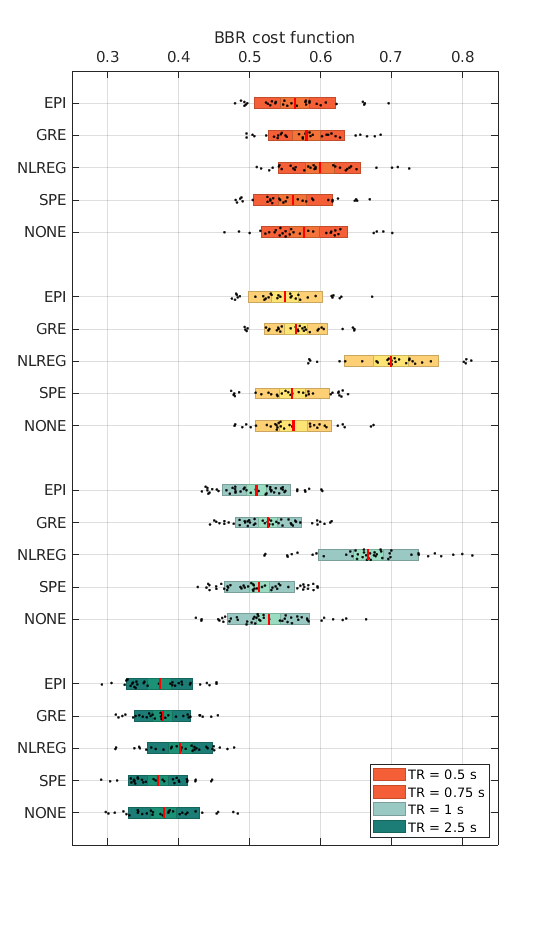
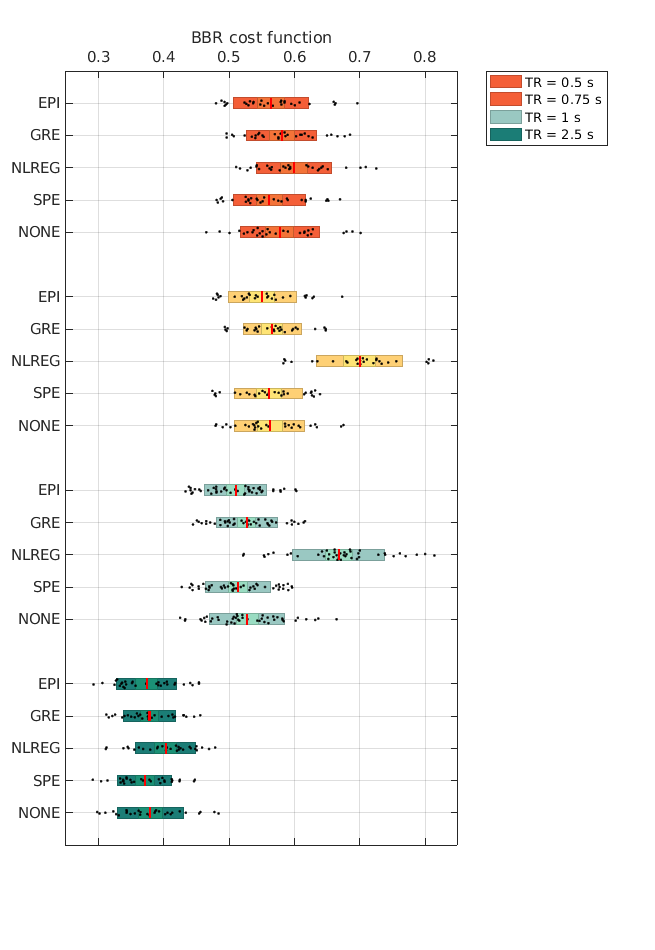
up

diff --git a/Module4-CoRegistration/MegaPLOT.m b/Module4-CoRegistration/MegaPLOT.m
@@ -186,7 +186,7 @@ grid on, box on
 
 patches = [h1.sdPtch h2.sdPtch h3.sdPtch h4.sdPtch];
 
-legend(patches([1 5 11 20]),{'TR = 0.5 s','TR = 0.75 s','TR = 1 s', 'TR = 2.5 s'},'location','southeast')
+legend(patches([1 5 11 20]),{'TR = 0.5 s','TR = 0.75 s','TR = 1 s', 'TR = 2.5 s'},'location','northeastoutside')
 
 camroll(-90)
 
